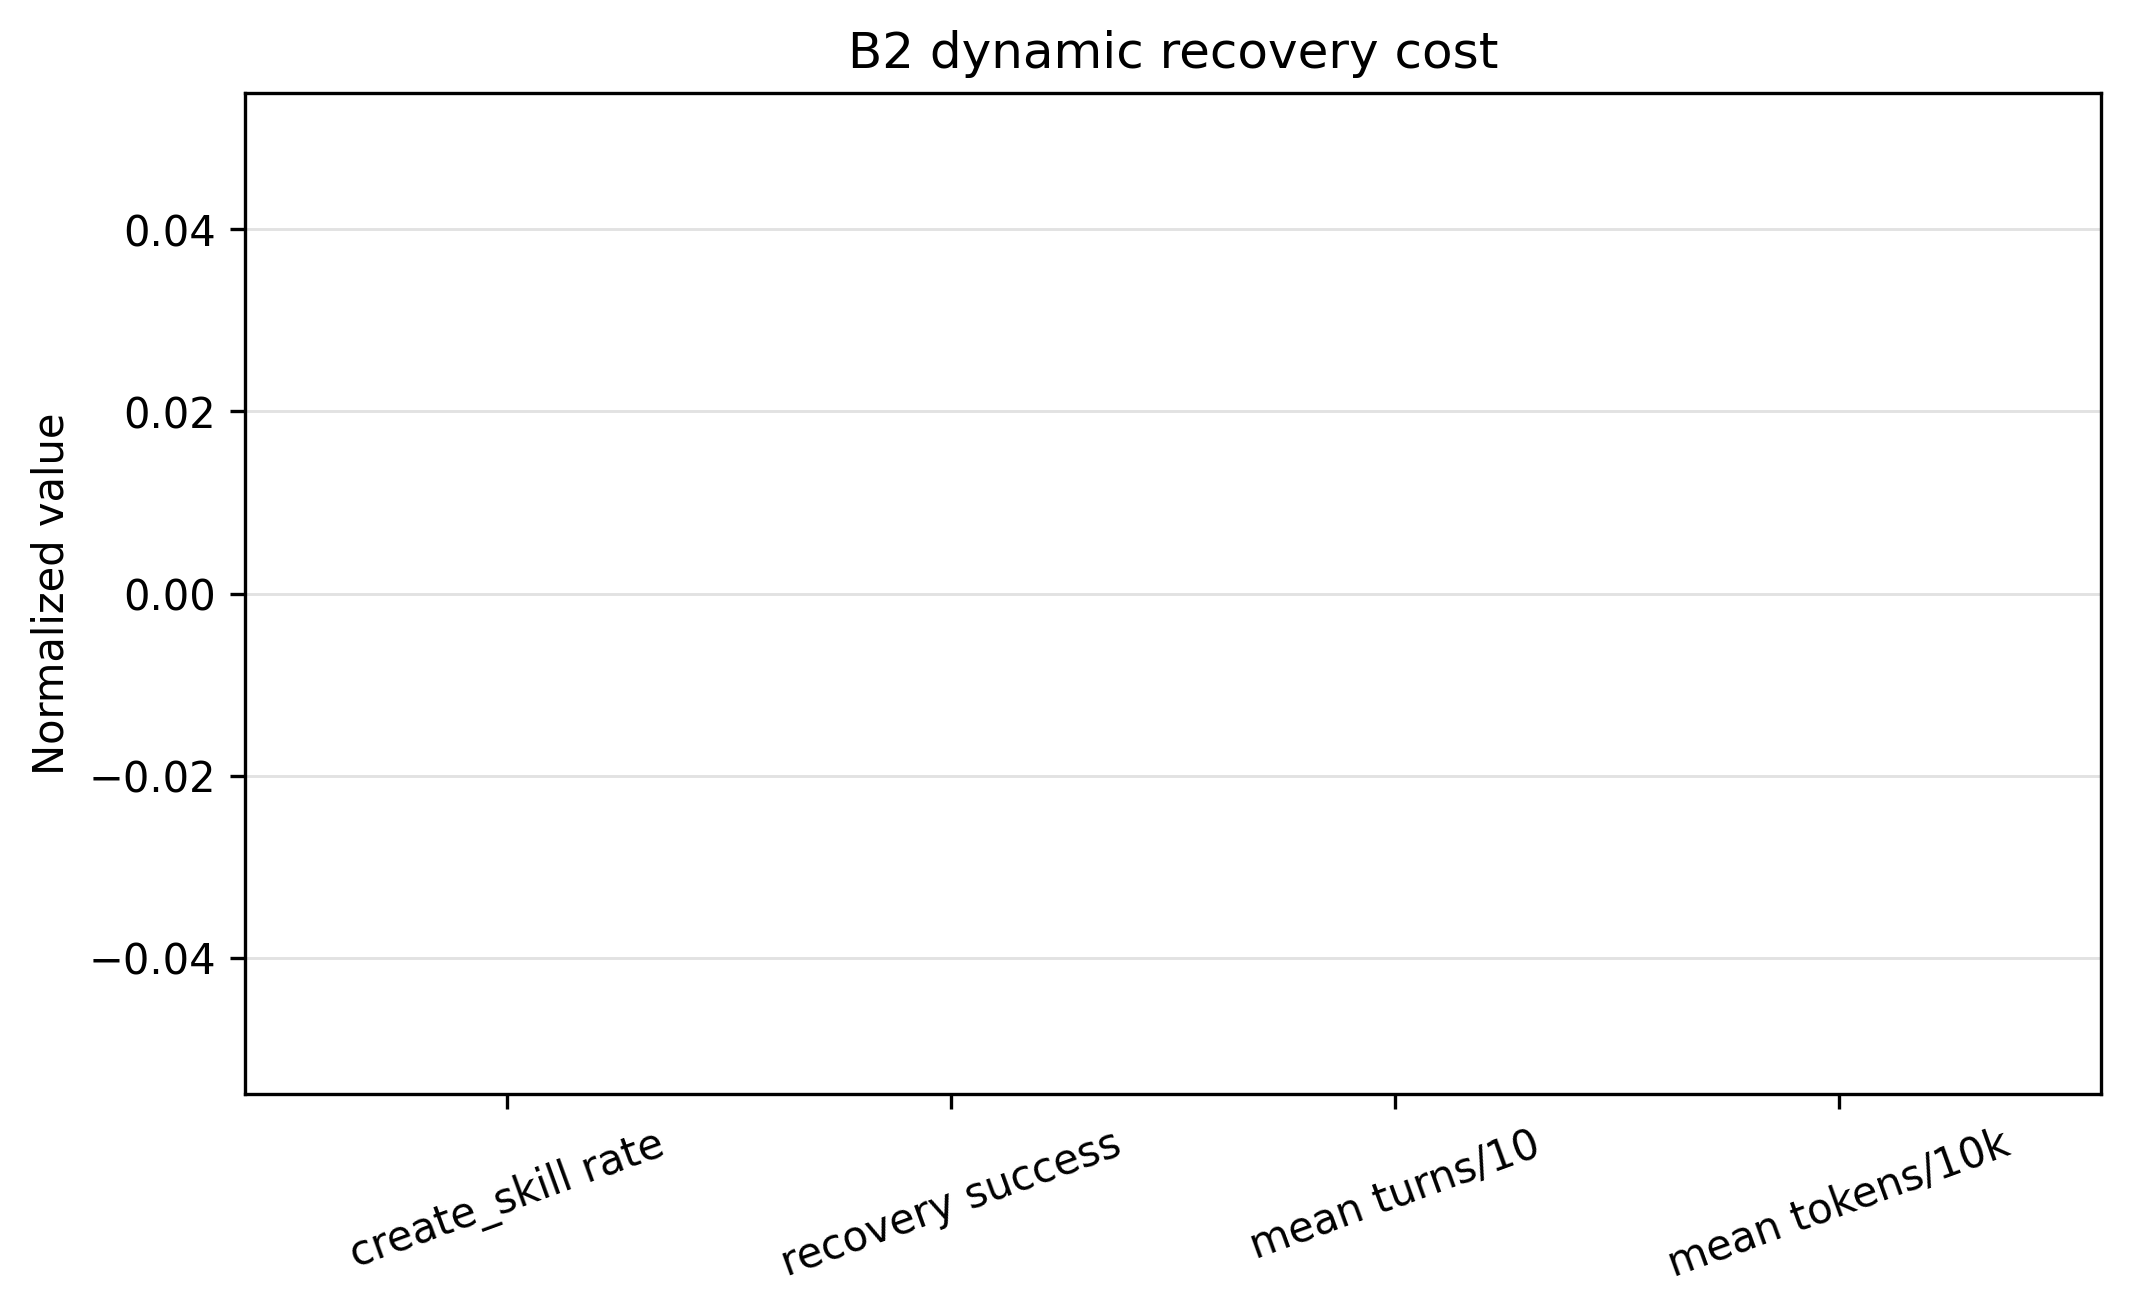
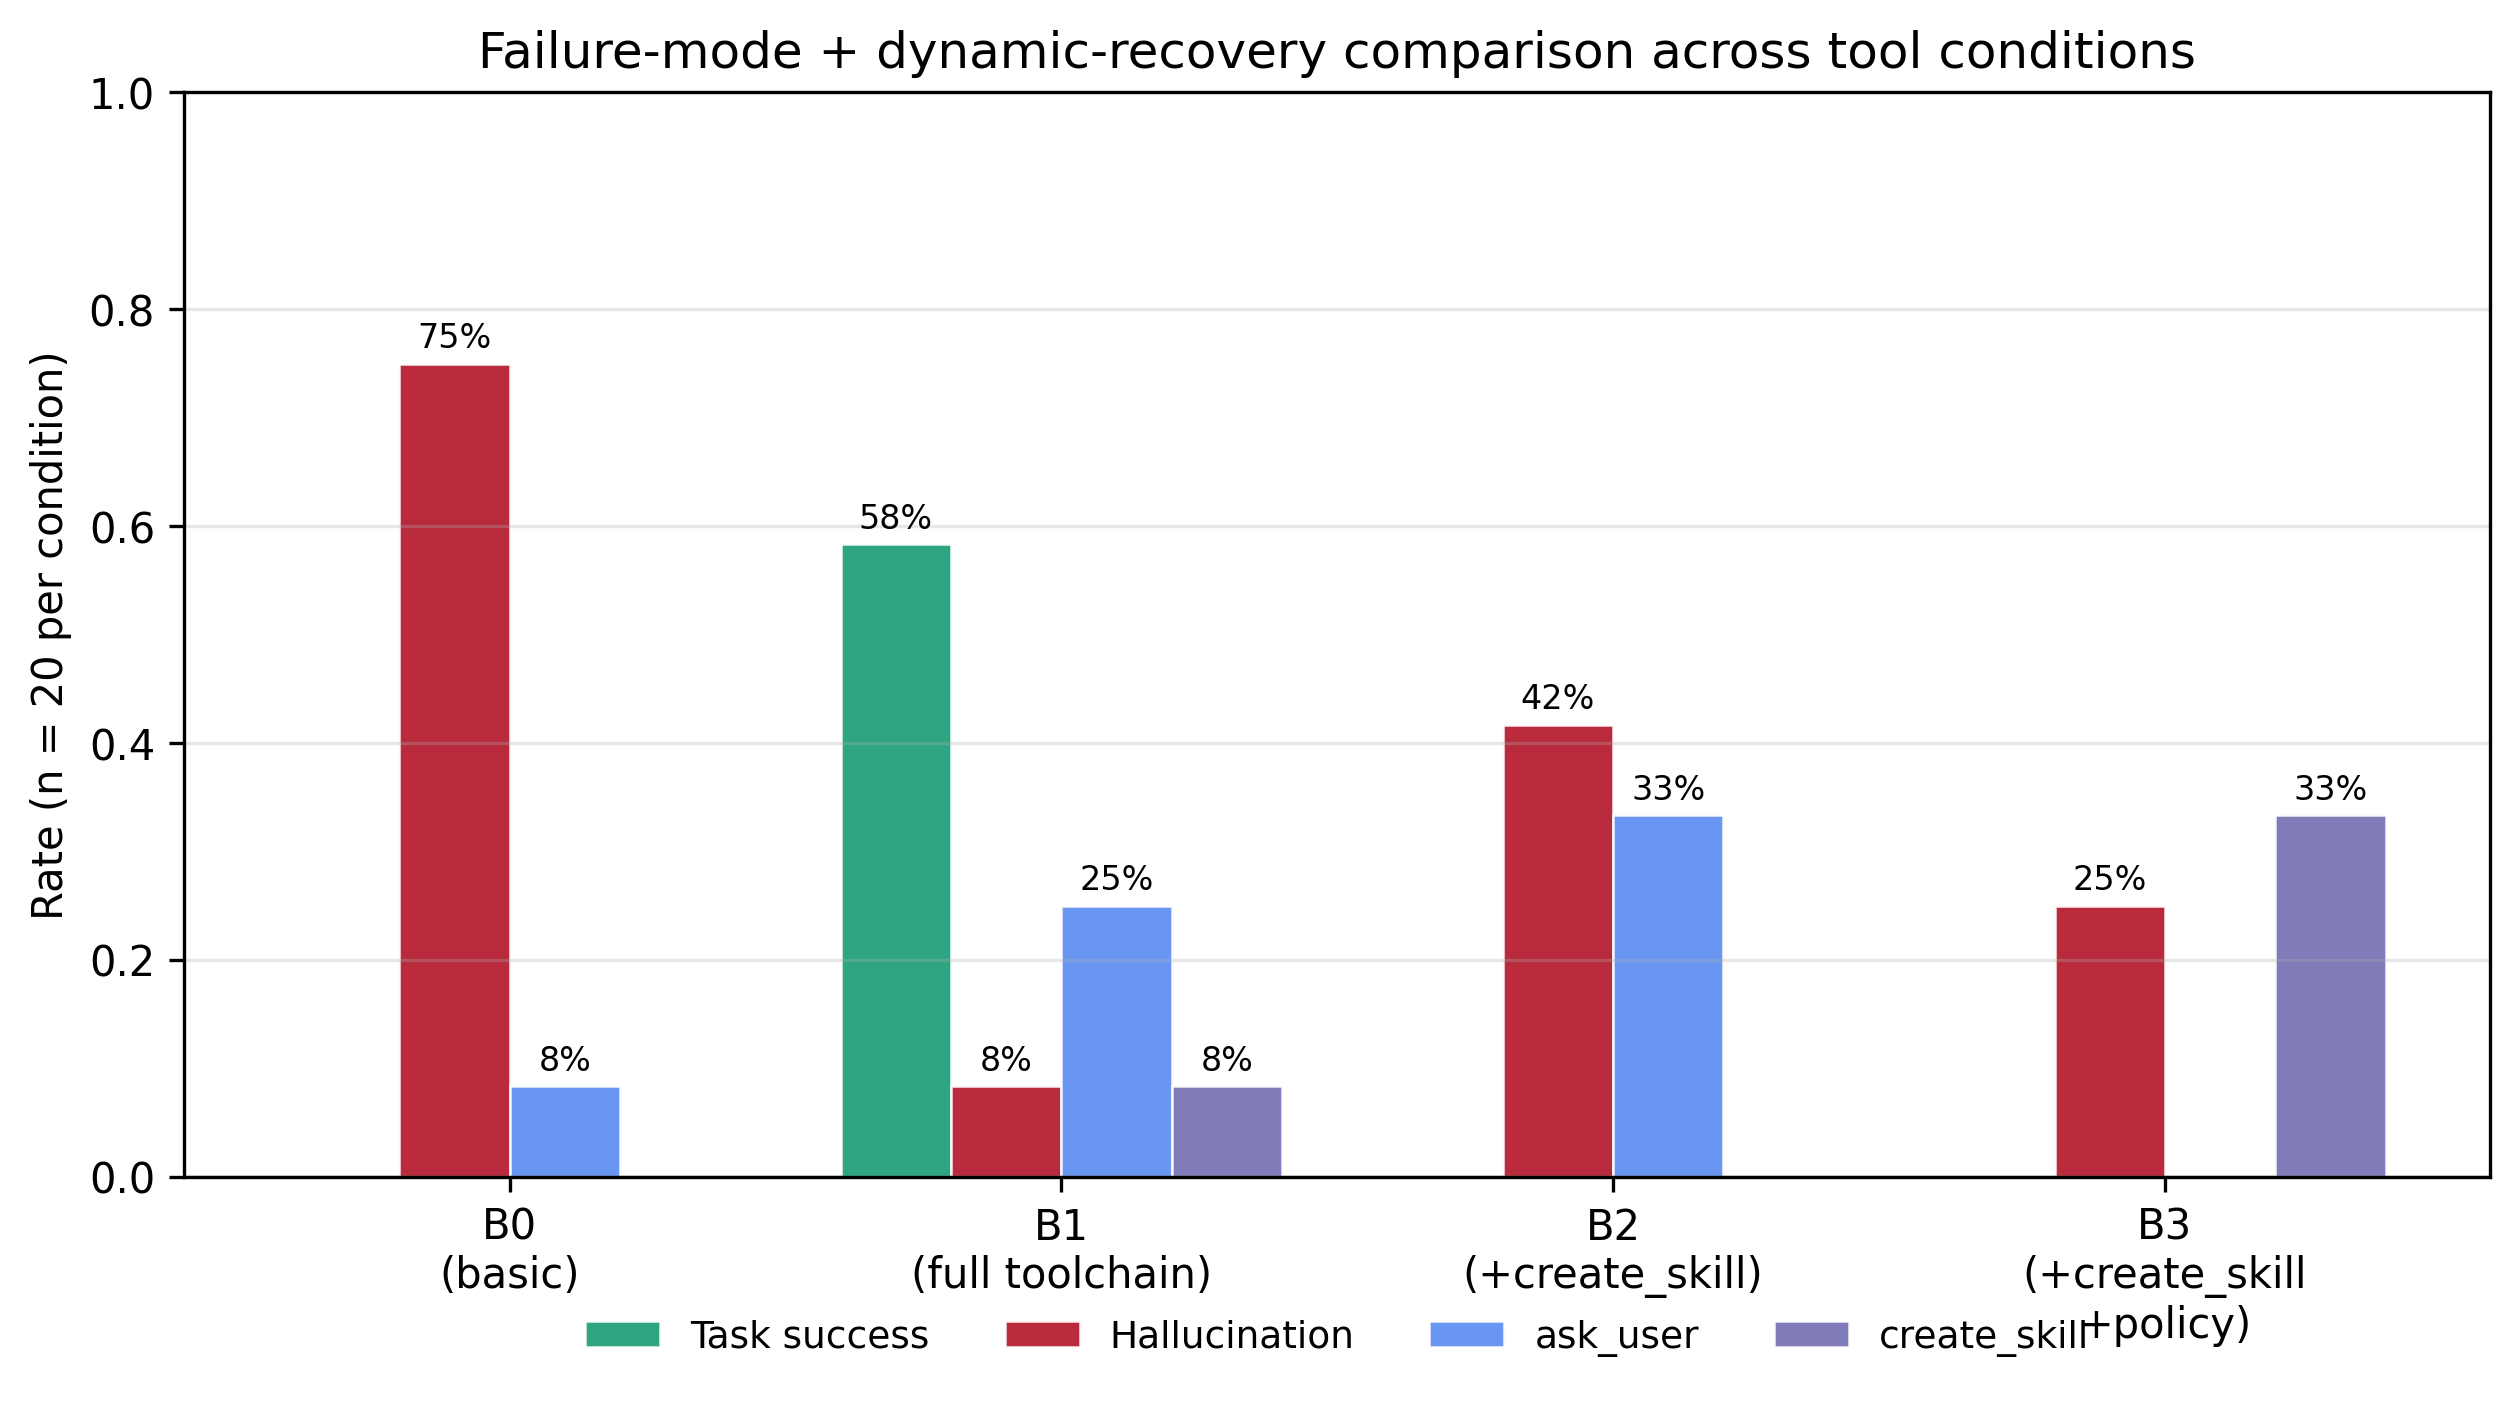
fix(exp4): Figure 4.8 was empty — now grouped bars across B0/B1/B2/B3
Original _plot_recovery_cost only plotted condition B2. Since B2's
create_skill_rate is 0% (the v2 paper finding!) and no create_skill
runs means recovery_success/turns/tokens are all undefined, the figure
came out completely blank — looking like a render bug rather than the
intended "B2 never invokes the meta-tool" finding.

Fix: replaced single-condition plot with a 4-condition grouped-bar
chart on the 4 metrics that actually distinguish B0/B1/B2/B3:
task_success_rate, hallucination_rate, ask_user_rate, create_skill_rate.

The new chart visually shows the two headline findings of §4.4:
- B0 → B1 hallucination collapses 75% → 8% (9× reduction)
- B2 → B3 create_skill_rate jumps 0% → 33%, but task_success still 0%

Both findings are visible at a glance with per-bar percentage labels.

diff --git a/experiment/exp4/plot_results.py b/experiment/exp4/plot_results.py
@@ -53,29 +53,59 @@ def _plot_failure_stack(compiled: dict, out) -> None:
 
 
 def _plot_recovery_cost(compiled: dict, out) -> None:
-    import matplotlib.pyplot as plt
+    """Grouped-bar comparison of dynamic-recovery metrics across all 4 conditions.
 
-    rows = [r for r in compiled.get("failure_modes", []) if r.get("condition_id") == "B2"]
-    if not rows or not compiled.get("trial_records"):
-        raise SystemExit("No B2 recovery records found. Run the experiment before plotting.")
-    row = rows[0]
-    labels = ["create_skill rate", "recovery success", "mean turns/10", "mean tokens/10k"]
-    values = [
-        _val(row, "create_skill_rate"),
-        _val(row, "recovery_success_rate"),
-        _val(row, "mean_recovery_turns") / 10.0,
-        _val(row, "mean_recovery_tokens") / 10000.0,
+    Original chart only showed B2 (create_skill_rate=0 → all bars empty,
+    chart looked like a render bug). v2 shows B0/B1/B2/B3 side-by-side on
+    the metrics that actually distinguish them: task_success_rate,
+    hallucination_rate, ask_user_rate, create_skill_rate. The four-bar layout
+    makes the B0→B1 hallucination collapse and the B2→B3 create_skill jump
+    visible at a glance.
+    """
+    import matplotlib.pyplot as plt
+    import numpy as np
+
+    fm = {r["condition_id"]: r for r in compiled.get("failure_modes", [])}
+    conditions = [c for c in ("B0", "B1", "B2", "B3") if c in fm]
+    if not conditions:
+        raise SystemExit("No condition rows found in failure_modes.")
+    metrics = [
+        ("task_success_rate",   "Task success",     "#1B9E77"),
+        ("hallucination_rate",  "Hallucination",    "#B2182B"),
+        ("ask_user_rate",       "ask_user",         "#5B8DEF"),
+        ("create_skill_rate",   "create_skill",     "#7570B3"),
     ]
-    fig, ax = plt.subplots(figsize=(7.2, 4.5))
-    ax.bar(labels, values, color=["#7570B3", "#1B9E77", "#5B8DEF", "#D95F02"], alpha=0.88)
-    ax.set_ylabel("Normalized value")
-    ax.set_title("B2 dynamic recovery cost")
-    ax.grid(axis="y", color="#DDDDDD", linewidth=0.7, alpha=0.85)
-    ax.set_axisbelow(True)
-    ax.tick_params(axis="x", rotation=20)
+
+    fig, ax = plt.subplots(figsize=(8.5, 4.8))
+    x = np.arange(len(conditions))
+    width = 0.20
+    for i, (key, label, color) in enumerate(metrics):
+        vals = [_val(fm[c], key) for c in conditions]
+        ax.bar(x + (i - 1.5) * width, vals, width=width, label=label,
+               color=color, edgecolor="white", linewidth=0.6, alpha=0.92)
+        # annotate non-zero bars
+        for j, v in enumerate(vals):
+            if v > 0.001:
+                ax.text(x[j] + (i - 1.5) * width, v + 0.015,
+                        f"{int(round(v*100))}%", ha="center", fontsize=8)
+
+    ax.set_xticks(x)
+    ax.set_xticklabels([f"{c}\n({_condition_label(c)})" for c in conditions])
+    ax.set_ylabel("Rate (n = 20 per condition)")
+    ax.set_title("Failure-mode + dynamic-recovery comparison across tool conditions")
+    ax.set_ylim(0, 1.0)
+    ax.axhline(0.0, color="#888888", linewidth=0.8)
+    ax.legend(ncol=4, loc="upper center", bbox_to_anchor=(0.5, -0.10),
+              frameon=False, fontsize=9)
+    ax.grid(axis="y", alpha=0.3)
     fig.tight_layout()
     fig.savefig(out, dpi=300, bbox_inches="tight")
     plt.close(fig)
+
+
+def _condition_label(cid: str) -> str:
+    return {"B0": "basic", "B1": "full toolchain",
+            "B2": "+create_skill", "B3": "+create_skill\n+policy"}.get(cid, cid)
 
 
 def main() -> None: